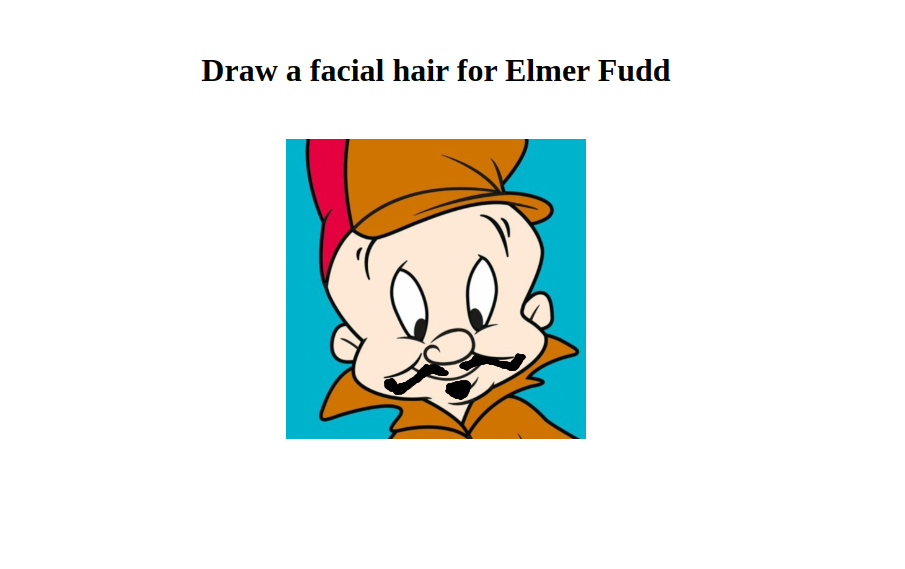
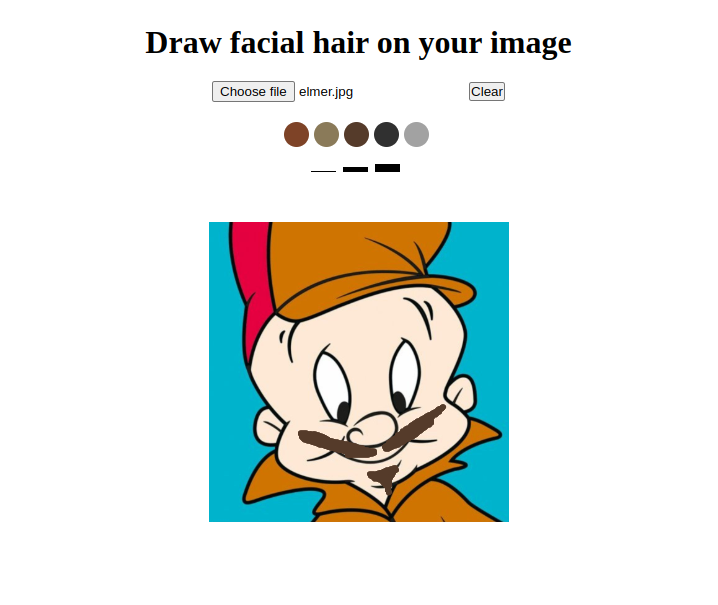
Drawing v2

Changed region(s): [[0.1838, 0.0598, 0.7967, 0.8664]]

diff --git a/include.js b/include.js
@@ -169,7 +169,7 @@ let cards = [
     githubLink: 'https://github.com/bhavansh'
   },
     {
-        artName: 'Draw facial hair for Elmer Fudd',
+        artName: 'Draw facial hair on your image',
         pageLink: './Art/TamasKn/drawing.html',
         imageLink: './Art/TamasKn/assets/draw-facial-hair.png',
         author: 'TamasKn',
